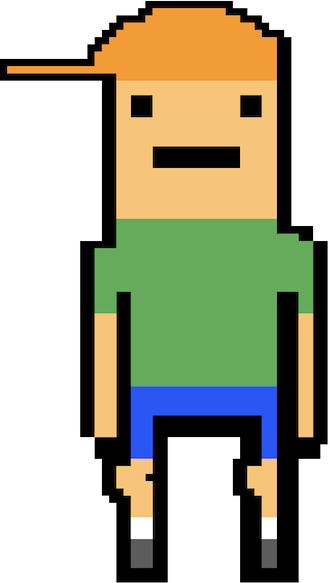
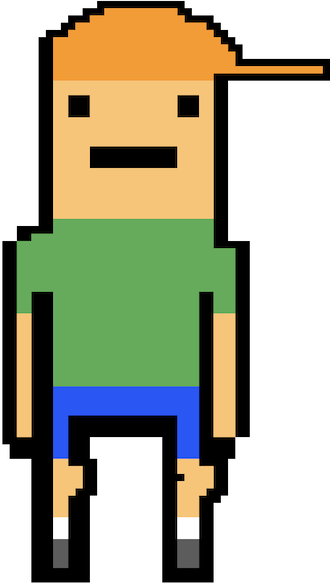
make default player dir forward

diff --git a/jump/jumper.js b/jump/jumper.js
@@ -90,7 +90,7 @@ class Jumper {
     translate(0, this.pos.y);
 
     // Change dir based on x vel
-    scale(-1 * this.v.x / abs(this.v.x), 1.0);
+    scale(this.v.x / abs(this.v.x), 1.0);
 
     if (this.upKeyIsHeld) {
       const h_adj = this.h * 0.88;
